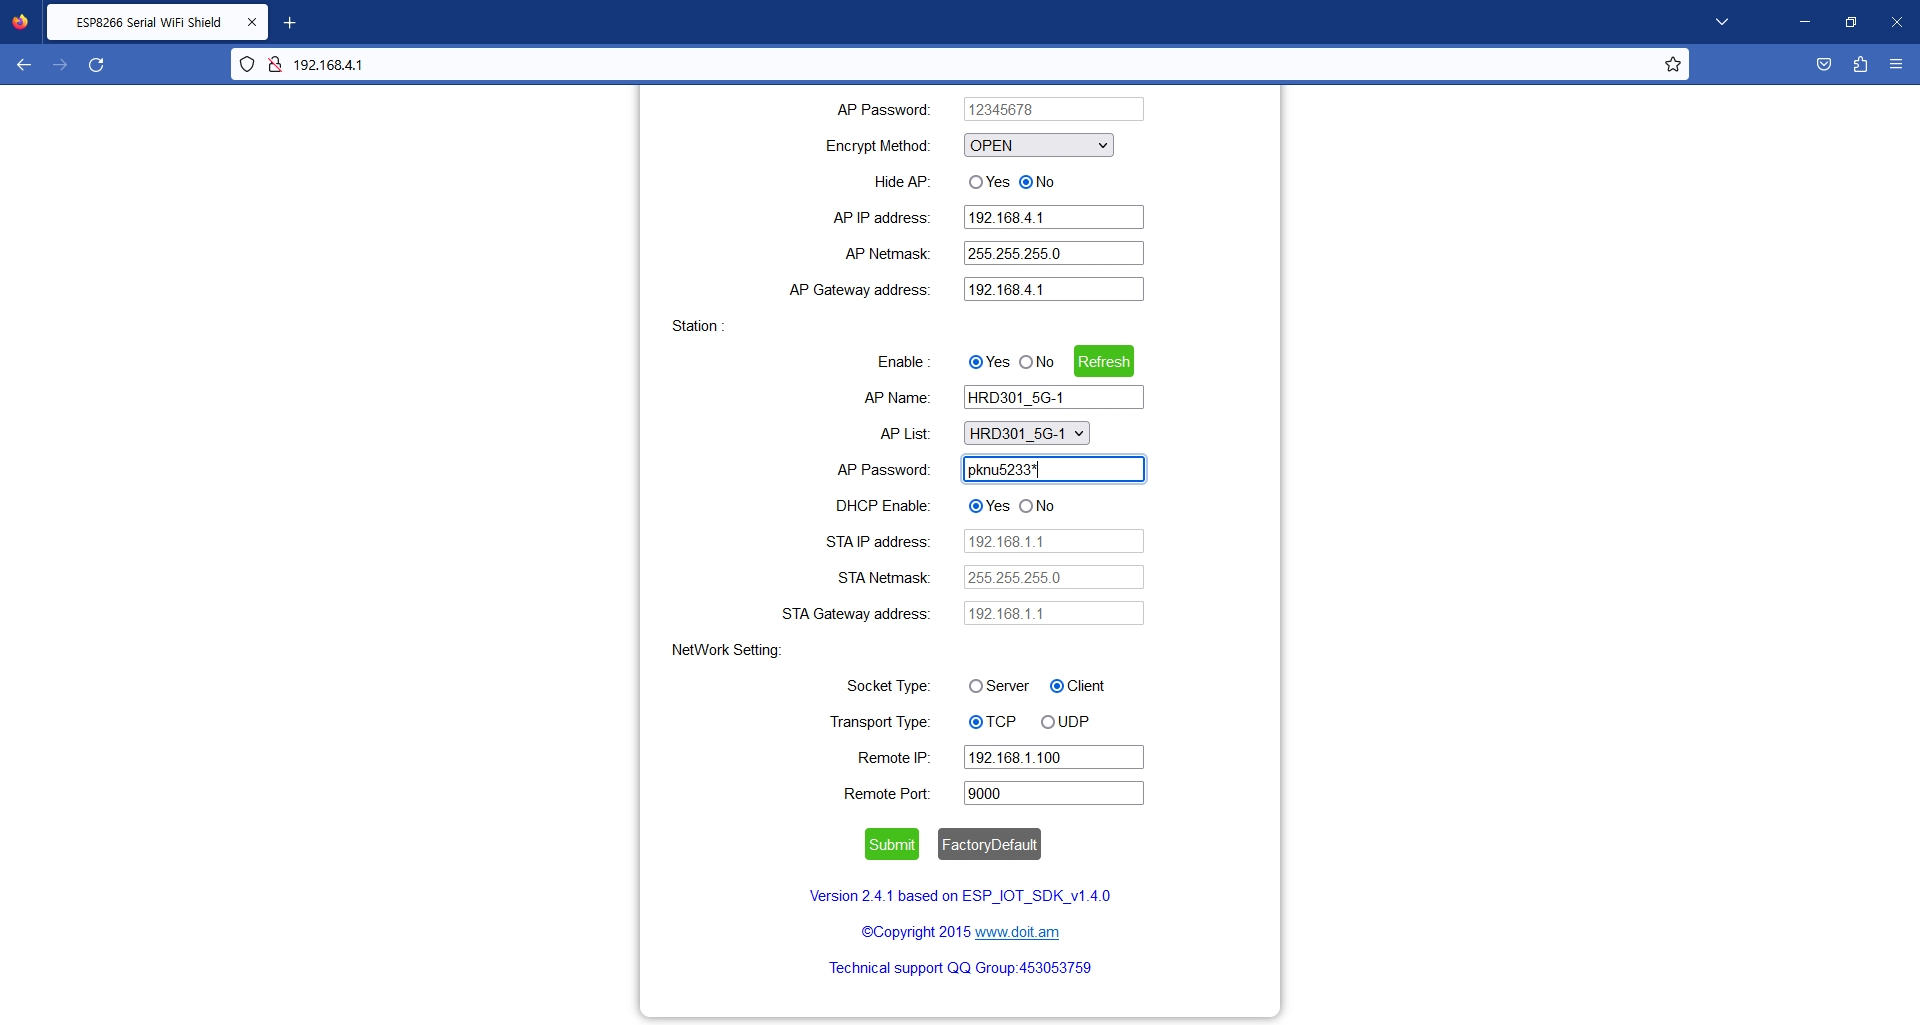
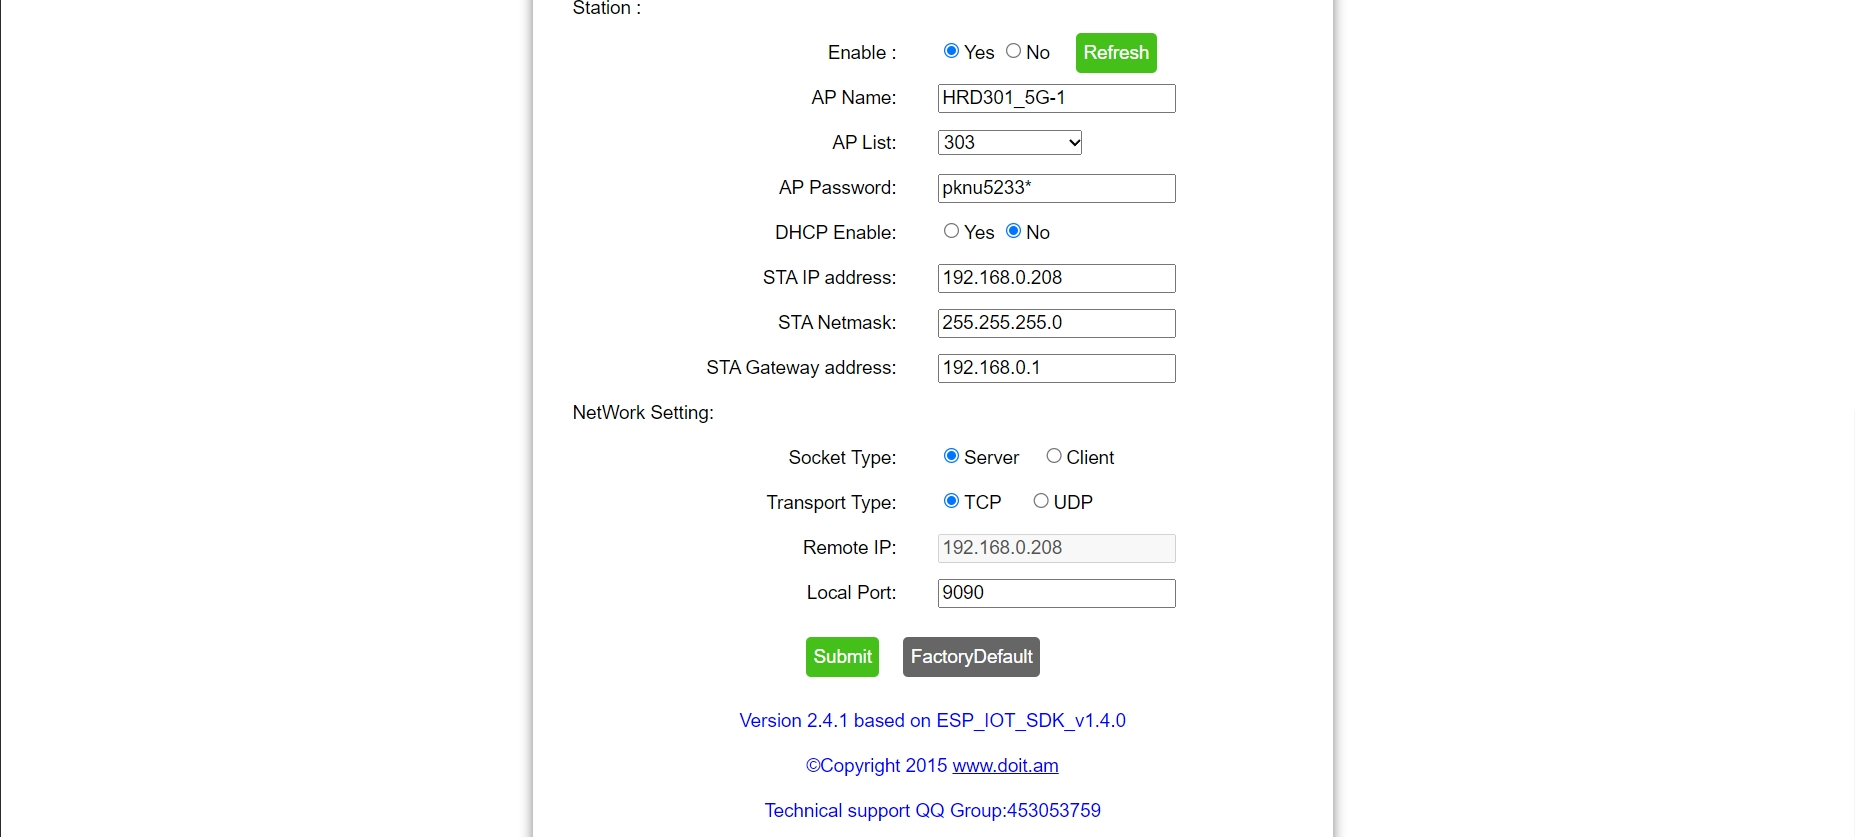
업로드

Changed region(s): [[0.0, 0.0, 1.0, 1.0], [0.338, 0.6213, 0.3995, 0.6523], [0.338, 0.3106, 0.3687, 0.3417]]

diff --git a/WifiShield_Test/WifiTest.py b/WifiShield_Test/WifiTest.py
@@ -1,0 +1,22 @@
+# -*-coding:utf-8 -*-
+
+import socket
+
+HOST = '192.168.0.208' #아두이노에 연결된 라즈베리파이의 ip
+PORT = 9090 #통신 포트
+
+sock = socket.socket(socket.AF_INET, socket.SOCK_STREAM) #소켓 TCP 설정
+
+sock.bind((HOST,PORT))
+
+print("server wait......")
+
+sock.listen(1) #접속 기다림
+conn, addr = sock.accept() #접속 승인
+print(addr) #연결된 IP와 포트
+
+while True:
+        data = conn.recv(1024) #데이터 수신
+        print(data)
+
+conn.close()

diff --git a/README.md b/README.md
@@ -44,8 +44,25 @@
 
 <img src="https://raw.githubusercontent.com/hugoMGSung/study-smarthome/main/images/esp8266_shield03.jpg" width="900" alt="상단설정">
 
+여기 설정에서는 Station을 아래와 같이 변경함
+
 <img src="https://raw.githubusercontent.com/hugoMGSung/study-smarthome/main/images/esp8266_shield04.jpg" width="900" alt="하단설정">
 
+필요한 설정 - Station의 DHCP 대신 아이피 설정, Network Setting의 Socket Type, Remote IP (Station IP Address와 동일하게 설정), Local Port 9000 -> 9090 등 빈번호로 설정
+
+- 쉴드의 스위치를 ON 해야 데이터가 넘어옴
+
+<img src="https://raw.githubusercontent.com/hugoMGSung/study-smarthome/main/images/esp8266_shield05.jpg" width="900" alt="하단설정">
+
+- 작업순서
+	- 기본 아두이노 소스 코딩
+	- 서버측 파이썬 코딩
+	
+```
+기본소스를 업로드 한 뒤 와이파이 실드를 연결하고 설정된 대로 동작시킵니다.
+
+```
+  
 - ~~컴파일시 결과~~
 
 <img src="https://raw.githubusercontent.com/hugoMGSung/study-smarthome/main/images/esp8266_shield01.jpg" width="600" alt="컴파일 결과">
